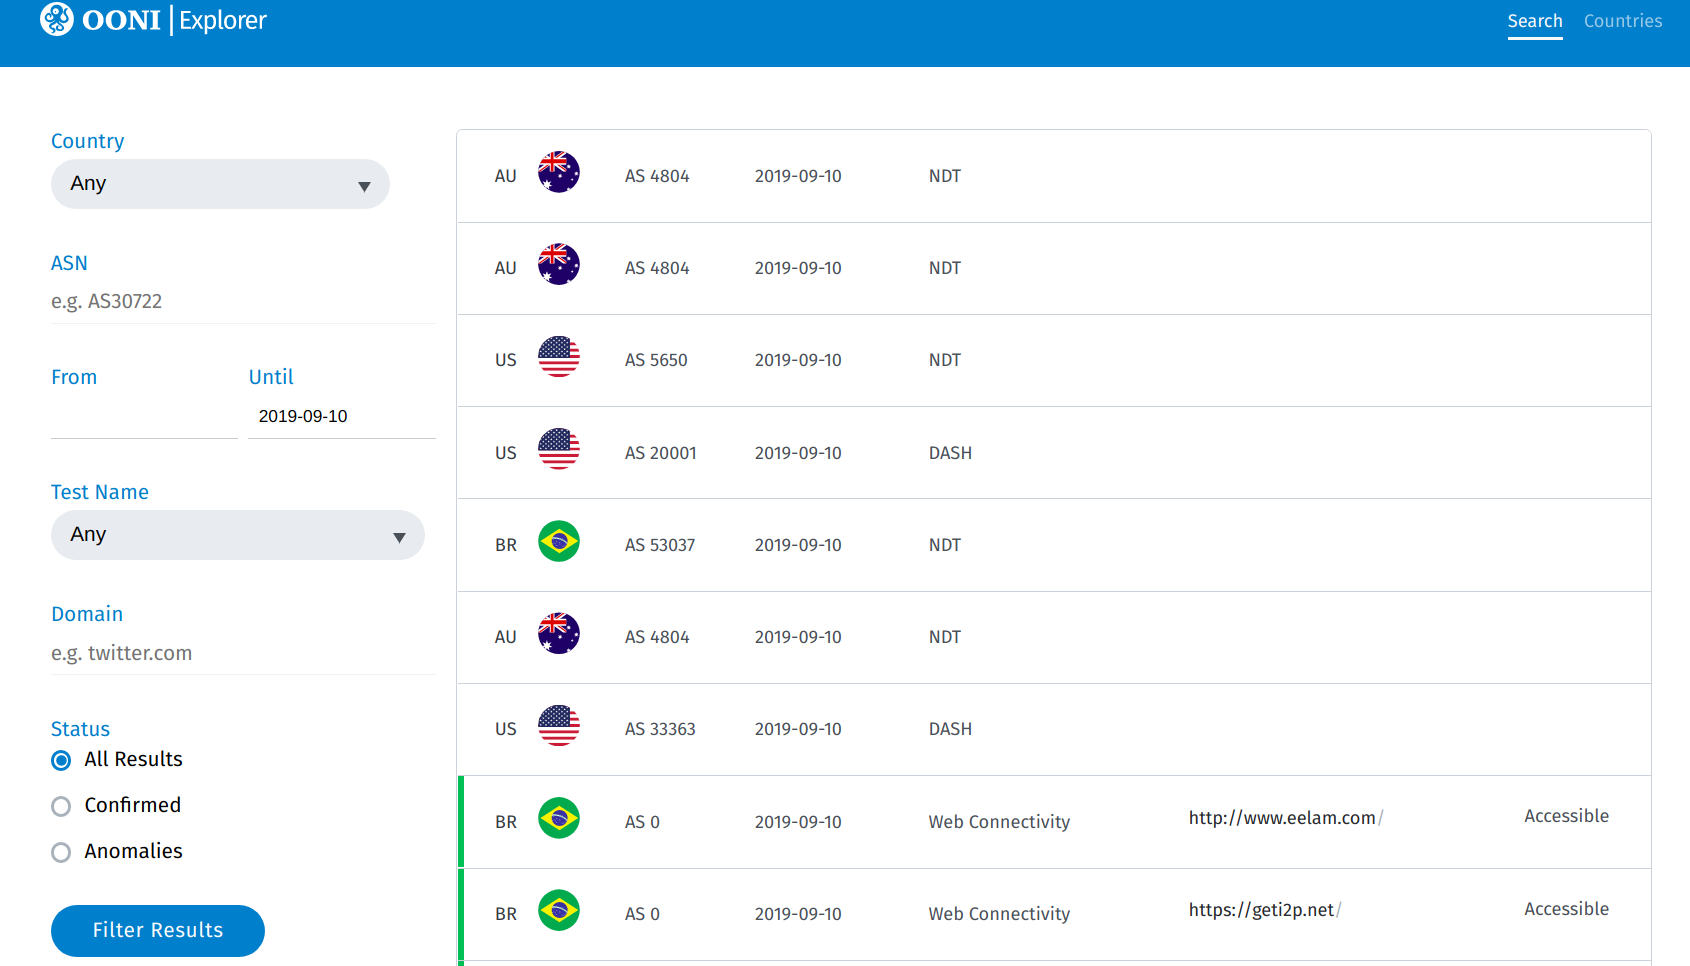
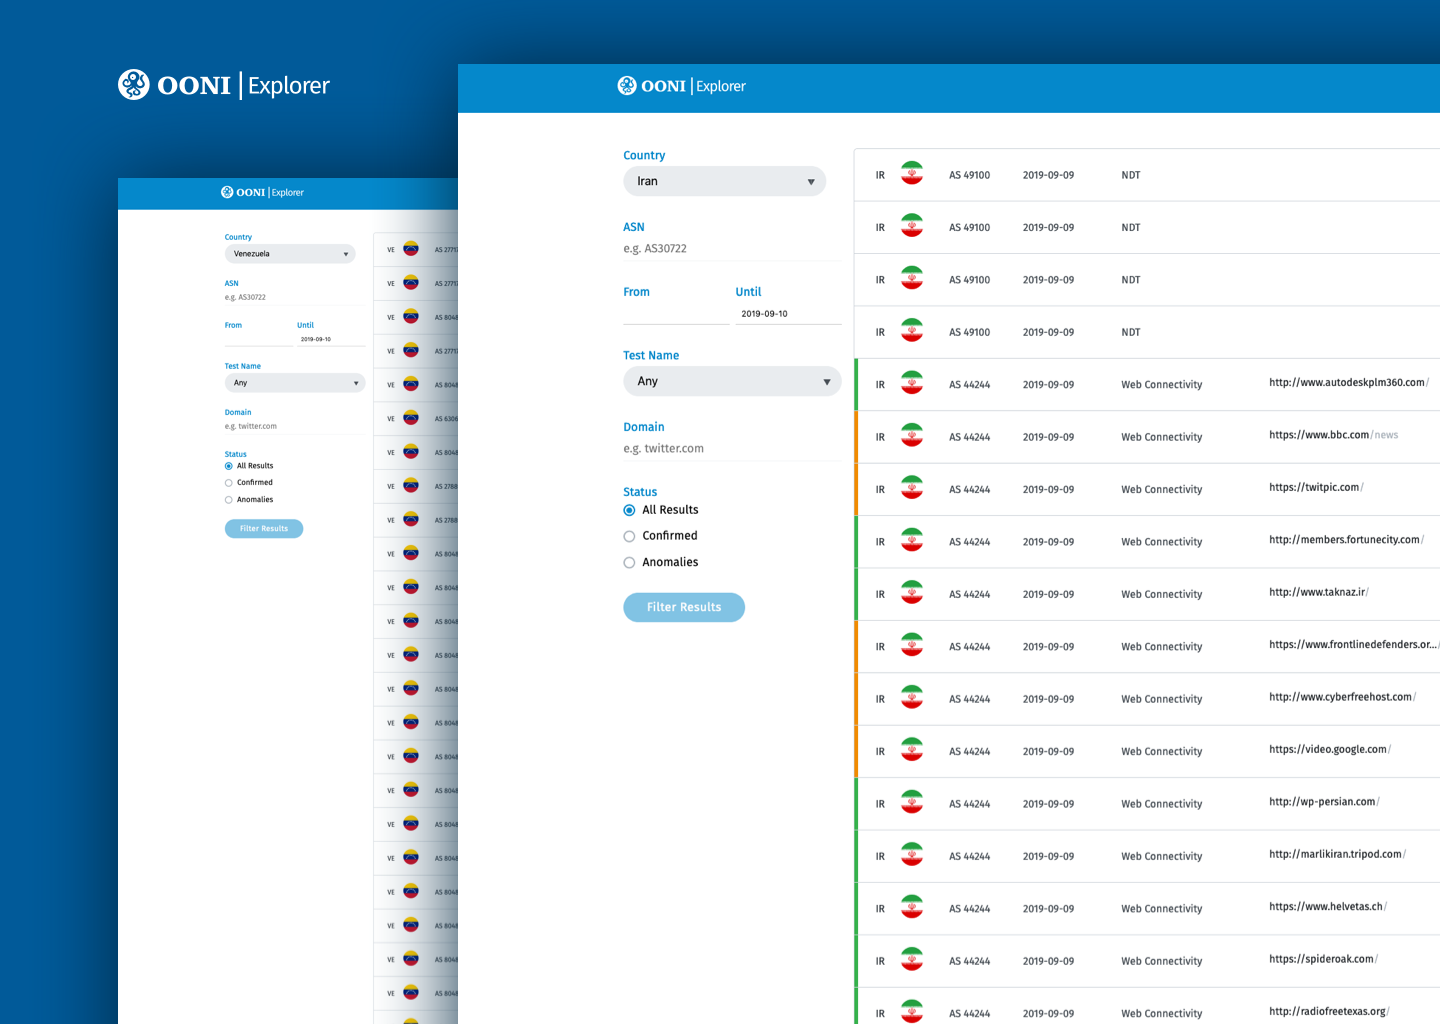
Updated the screenshots with better images

diff --git a/content/post/next-generation-ooni-explorer.md b/content/post/next-generation-ooni-explorer.md
@@ -1,7 +1,7 @@
 ---
 title: "Next Generation OONI Explorer Launched!"
 author: "Maria Xynou"
-date: "2019-09-10"
+date: "2019-09-12"
 tags: ["ooni-explorer", "launch"]
 categories: ["blog"]
 ---
@@ -317,6 +317,8 @@ data in JSON format**.
 ## Censorship Highlights
 
 So what can you learn from OONI Explorer?
+
+![Censorship Highlights](/post/2019-explorer-revamp/highlights.png)
 
 Through the Highlights section on the landing page of the revamped OONI
 Explorer, we share a few examples (based on OONI data) of:
